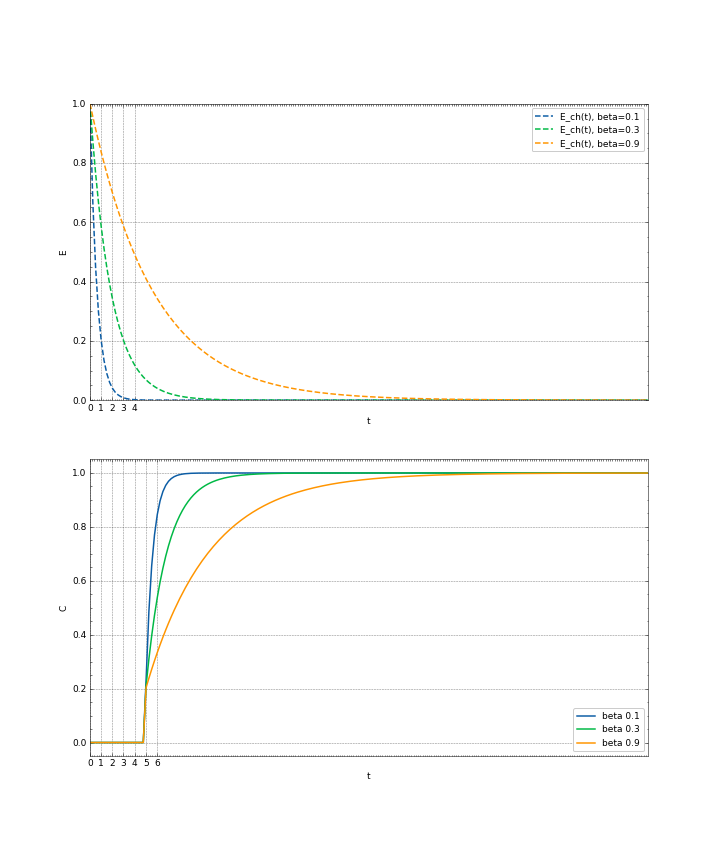
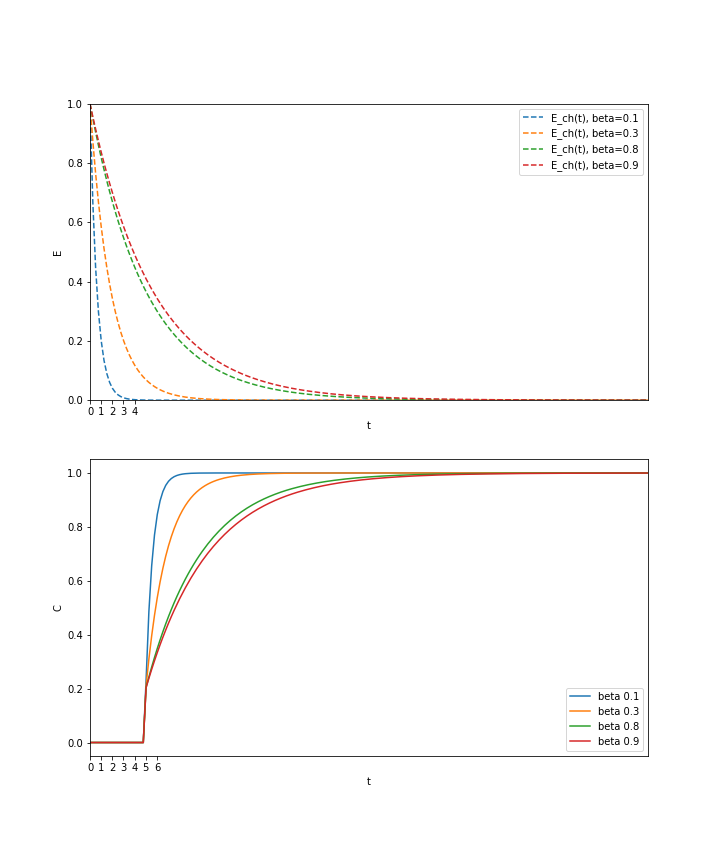
ch model

diff --git a/Experiments/Preliminary/Convolution_script/Convolution_024_Cholete_Model/Convolution_024_Cholete_Bo_08.py b/Experiments/Preliminary/Convolution_script/Convolution_024_Cholete_Model/Convolution_024_Cholete_Bo_08.py
@@ -22,11 +22,12 @@ from sympy import ceiling
 if wandb.run is not None:
     wandb.finish()
 
-Bo_dir = r'D:\Tuana\nRTD\Experiments\Preliminary\Litrature\Cholete_Model\beta0.1_n'
+#Bo_dir = '/Users/tuanaoyuncu/Documents/GitHub/nRTD/Experiments/Preliminary/Litrature/Cholete_Model/beta0.9_nn'
+Bo_dir = r'D:\Tuana\nRTD\Experiments\Preliminary\Litrature\Cholete_Model\beta0.8_n'
 t_conv_tau = torch.tensor(np.load(os.path.join(Bo_dir, 'time.npy')), dtype=torch.float32).unsqueeze(0).unsqueeze(0)
 c_out_tau = torch.tensor(np.load(os.path.join(Bo_dir, 'concentration.npy')), dtype=torch.float32).unsqueeze(0).unsqueeze(0)
 
-epoch=1
+epoch=19000
 n_in_1, n_out_1, n_e_1, = sp.symbols(
     "n_in_1 n_out_1 n_e_1 ", positive=True, real=True
 )
@@ -191,7 +192,7 @@ def Cholete_E (t: npt.NDArray[np.float64], alpha: float, beta: float, tau: float
 t_exp = np.linspace(0, t_e_1, n_e_1)
 c_0_exp = np.zeros_like(t_exp)
 c_0_exp[t_exp > 5] = 1
-beta_values = np.array([0.1])
+beta_values = np.array([0.8])
 for beta in beta_values:
     F,E_e = Cholete(t_exp, 0.2, beta, 5,5)
     E_c_e = Cholete_E(t_exp, 0.2, beta, 5)
@@ -212,7 +213,7 @@ for i in range(c_out.size(1)):
     ax1.plot(
         t_conv[0, i, :].numpy(),
         c_out[0, i, :].numpy(),
-        label="Bo=0.9",
+        label="Bo=0.8",
         color="green",
     )
 
@@ -223,14 +224,14 @@ ax1.plot(
     label="Predicted",
     color="red",linestyle="-."
 )
-ax1.set_xlim((0, 8))
+ax1.set_xlim((0, 30))
 ax1.set_ylim((0, 1.1))
 ax1.set_ylabel('Concentration')
 ax1.set_xticks(np.arange(0, 7, 1)) 
 ax1.legend()
 ax1.tick_params(labelbottom=False)
 ax2.plot(t_E, E, label="E", color="orange")
-ax2.plot(t_E, E_c_e_normalized/E_c_e_normalized.max(), label="E", color="red")
+ax2.plot(t_E, E_c_e_normalized/E_c_e_normalized.max(), label="E", color="red",linestyle="--")
 #ax2.plot(t_values, E_expected, label="E (Expected )", color="purple", linestyle="--")
 ax2.set_xlabel('t')
 ax2.set_ylabel('E')
@@ -241,10 +242,10 @@ ax2.set_ylim((0, 1.1))
 ax2.legend()
 ax2.set_xticks(np.arange(0, 10, 1))  
 plt.xlabel("Time")
-#save_dir = "/Users/tuanaoyuncu/Documents/GitHub/nRTD/Experiments/Preliminary/Convolution_script/Convolution_015_Cholete_Model"
-#unified_dir = os.path.join(save_dir, f'Bo_{0.9}')
-#os.makedirs(unified_dir, exist_ok=True)
-#plt.savefig(os.path.join(unified_dir, 'Figure_Cholete_09.png'), dpi=300)
+# save_dir = "/Users/tuanaoyuncu/Documents/GitHub/nRTD/Experiments/Preliminary/Convolution_script/Convolution_015_Cholete_Model"
+# unified_dir = os.path.join(save_dir, f'Bo_{0.9}')
+# os.makedirs(unified_dir, exist_ok=True)
+# plt.savefig(os.path.join(unified_dir, 'Figure_Cholete_09.png'), dpi=300)
 plt.show()
 print("E",E.shape)
 print("E_c_e_normalized",E_c_e_normalized.shape)
@@ -290,5 +291,5 @@ ax2.legend(loc='best')
 ax2.set_xlim((0, 30))  
 ax2.set_ylim((-0.1, 1.1)) 
 current_date = datetime.datetime.now().strftime("%Y%m%d")
-plt.savefig(f"Profile_Ch_01_{current_date}.png", dpi=300)
+plt.savefig(f"Profile_Ch_08_{current_date}.png", dpi=300)
 plt.show()

diff --git a/Experiments/Preliminary/Litrature/Cholete_Model/Cholete_Model_004.py b/Experiments/Preliminary/Litrature/Cholete_Model/Cholete_Model_004.py
@@ -25,7 +25,7 @@ c_0 = np.zeros_like(t)
 c_0[t > 5] = 1
 fig, (ax1, ax2) = plt.subplots(2, 1, figsize=(10, 12))
 
-beta_values = np.array([0.1,0.3,0.9])
+beta_values = np.array([0.1,0.3,0.8,0.9])
 base_dir = '/Users/tuanaoyuncu/Documents/GitHub/nRTD/Experiments/Preliminary/Litrature/Cholete_Model'
 
 for beta in beta_values:

diff --git a/Experiments/Preliminary/2nd_Layer_Adler_Cholete/2nd_Layer_Adler_Cholete_HSA.py b/Experiments/Preliminary/2nd_Layer_Adler_Cholete/2nd_Layer_Adler_Cholete_HSA.py
@@ -28,7 +28,7 @@ coefficients = {
     "beta_val": np.array([0.1]),
     "alpha_val": 0.2,
 }
-epoch = 10000
+epoch = 1
 
 base_dir = "Experiments/Preliminary/2_nd_Layer_Convolution"
 n_in_1, n_out_1, n_out_2, n_e_1, n_e_2 = sp.symbols(
